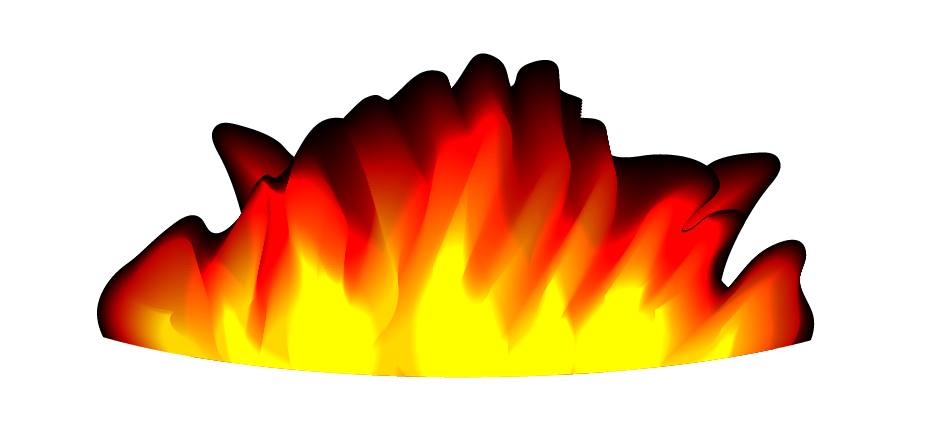
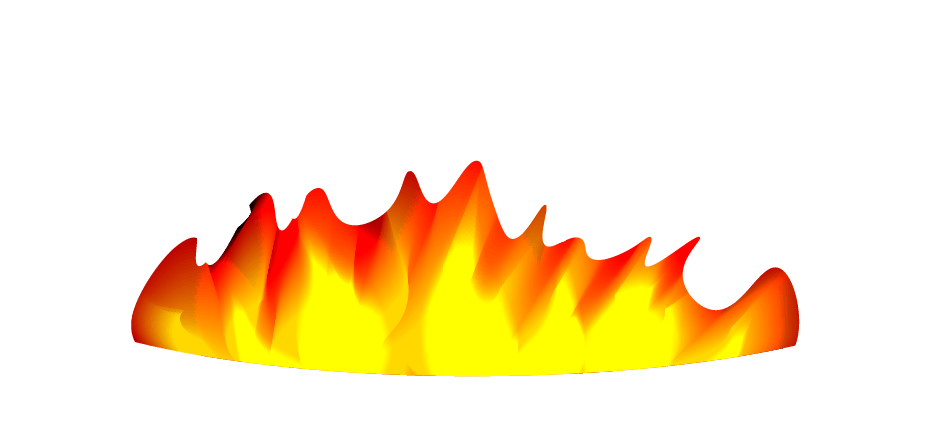
Se agrego el plato y se ajusto el fuego

Changed region(s): [[0.0907, 0.1182, 0.8769, 0.8568]]

diff --git a/src/components/base/Base.tsx b/src/components/base/Base.tsx
@@ -1,0 +1,63 @@
+import { useRef, useEffect, useState } from 'react';
+
+import BaseIMG from '../../assets/img/base.png';
+import PlatoIMG from '../../assets/img/plato.png';
+
+function BaseLeft({ classType } : { classType : string }){
+
+    const platosIMG = useRef<HTMLImageElement | null>(null);
+    const [heightPlato, setHeightPlato] = useState<number>(0);
+
+
+    useEffect(()=>{
+
+        const img : HTMLImageElement | null  = platosIMG.current
+
+        if(img){
+
+            img.onload = () => {
+
+                heightResize(img)
+
+                window.onresize = () => {
+
+                    heightResize(img)
+                    
+                }
+
+            }
+
+        }
+        
+    }, [platosIMG])
+
+    const heightResize = (img : HTMLImageElement) => {
+
+        if(screen.width >= 1600){
+            setHeightPlato(img.offsetHeight - 100);
+        }else if(screen.width >= 1150){
+            setHeightPlato(img.offsetHeight - 70);
+        }else if(screen.width >= 900){
+            setHeightPlato(img.offsetHeight - 50);
+        }else if(screen.width >= 800){
+            setHeightPlato(img.offsetHeight - 40);
+        }else{
+            setHeightPlato(img.offsetHeight - 30);
+        }
+
+    }
+
+    return (
+        <>
+            <section className={`bases ${classType}`}>
+                    <img className='base' src={BaseIMG} alt="Base imagen" ref={platosIMG}/>
+            </section>
+            <section className={`platos ${classType}`}>
+                <img className='plato' style={{ height: `${heightPlato }px` }} src={PlatoIMG} alt="Plato imagen" /> 
+            </section>
+        </>
+    )
+
+}
+
+export default BaseLeft

diff --git a/src/scss/page/_level.scss b/src/scss/page/_level.scss
@@ -52,7 +52,9 @@
                 left: 7.5%;
                 top: 0px;
                 transform: translateY(-45%);
-                mix-blend-mode: lighten;
+                mix-blend-mode: screen;
+                user-select: none;
+                pointer-events: none;
 
                 @include bp(tablet){
                     transform: translateY(-40%);
@@ -82,11 +84,74 @@
 
                 }
 
-                @include animate(viewLlamas, 1.5s, ease, infinite);
+                @include animate(viewLlamas, 1.5s, linear, infinite);
     
             }
         }
 
     }
 
+}
+
+.bases{
+
+    position: fixed;
+    bottom: 0px;
+    width: 30%;
+    display: flex;
+    align-items: flex-end;
+    pointer-events: none;
+    user-select: none;
+
+    .base {
+        width: 200%;
+        transform: translateY(15%);
+    }
+
+    .plato{
+        width: 100%;
+        
+    }
+
+}
+
+
+.bases.left{
+    left: 0px;
+
+    .base {
+        transform: translateX(-50%) translateY(15%);
+    }
+
+}
+
+.bases.right{
+    right: 0px;
+}
+
+.platos{
+    position: fixed;
+    bottom: 0px;
+    width: 26%;
+    display: flex;
+    align-items: flex-end;
+    transform: translateY(-5%);
+    display: flex;
+    justify-content: center;
+    align-items: center;
+    user-select: none;
+    pointer-events: none;
+
+    @include bp(laptop){
+        transform: translateY(-10%); 
+    }
+
+}
+
+.platos.left{
+    left: 0px;
+}
+
+.platos.right{
+    right: 0px;
 }

diff --git a/src/app/levels/all/level_one.tsx b/src/app/levels/all/level_one.tsx
@@ -3,6 +3,9 @@ import { useEffect, useRef } from 'react';
 import Parrilla from '../../../assets/img/parrilla.png';
 import Llamas from '../../../assets/img/llamas.png';
 
+// Components
+import Base from '../../../components/base/Base';
+
 function LevelOne(){
 
     const parrilla = useRef<HTMLImageElement | null>(null);
@@ -29,12 +32,14 @@ function LevelOne(){
     return (
         <>
             <section>
+                <Base classType="left"/>
                 <section className="parrilla">
                     <section>
                         <img ref={ parrilla } className='parrillaImg' src={Parrilla} alt="Parrilla imagen" />
                         <img ref={llamas} src={Llamas} className='llamasImg' alt="Llamas imagen" />
                     </section>
                 </section>
+                <Base classType="right"/>
             </section>
         </>
     )
